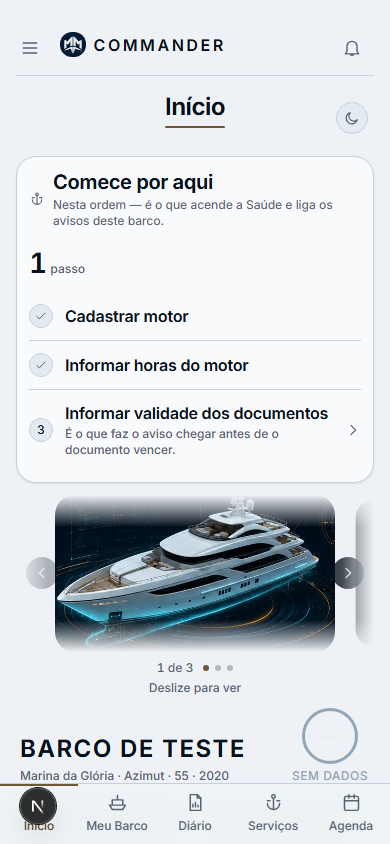
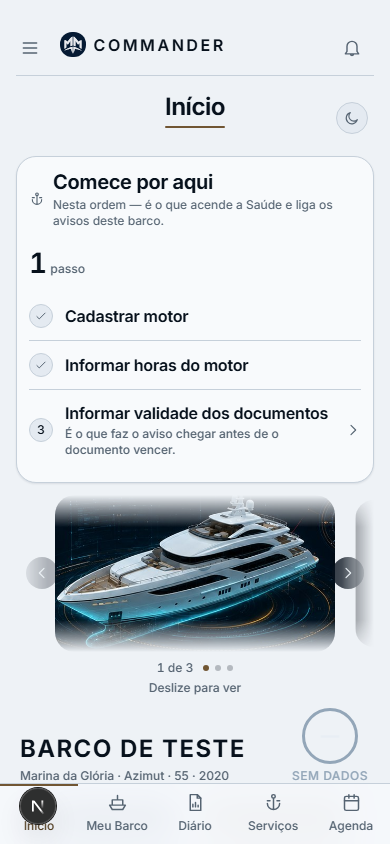
feat(onda 145): o chrome vira vidro - menu de baixo e trilho de desktop
'O menu nao esta em glassmorphism' (dono, 20/08 a noite). A bottom-nav e o
trilho sao as duas pecas FIXAS que o conteudo desliza por baixo - onde o
vidro le como vidro. .vidro-chrome em globals.css: 72% de opacidade sobre
--superficie + blur 16 + saturate 1.4, NOS DOIS temas (vidro de card e
linguagem do escuro; barra translucida sobre conteudo rolando e linguagem
de sistema). O topo fica de fora de proposito: vive no fluxo e rola junto,
vidro ali nao desfocaria nada. Os icones de navegacao do passe anterior
foram revertidos aos originais a pedido do dono no mesmo recado.
(globals tambem carrega os keyframes da gaveta da onda 146.)

diff --git a/web/app/globals.css b/web/app/globals.css
@@ -1280,3 +1280,35 @@ body.fundo-tela-mapa [data-bottom-nav] {
   -webkit-backdrop-filter: blur(8px);
   backdrop-filter: blur(8px);
 }
+
+/* ONDA 145 - O CHROME DE VIDRO ("o menu nao esta em glassmorphism", dono,
+   20/08 a noite). A bottom-nav e o trilho de desktop sao as duas pecas
+   FIXAS que o conteudo desliza por baixo - exatamente onde o vidro le como
+   vidro. Diferente dos cartoes (vidro so no escuro), o chrome e vidro NOS
+   DOIS temas: barra translucida sobre conteudo rolando e linguagem de
+   sistema operacional, nao de tema. O saturate(1.4) e o toque que faz as
+   cores atras atravessarem vivas em vez de acinzentadas. O topo (faixa-topo)
+   fica de fora de proposito: ele vive no fluxo e rola junto - vidro ali nao
+   teria o que desfocar. */
+.vidro-chrome {
+  background-color: color-mix(in srgb, var(--superficie) 72%, transparent);
+  -webkit-backdrop-filter: blur(16px) saturate(1.4);
+  backdrop-filter: blur(16px) saturate(1.4);
+}
+
+/* ONDA 146 — A ENTRADA DA GAVETA (components/ui/gaveta.tsx, imagem 12 do
+   guia). Duas coreografias pra UMA peça: no celular a folha SOBE do rodapé
+   (bottom-sheet, vocabulário nativo do polegar); a partir de `sm` ela
+   DESLIZA da direita (painel lateral de ficha, como o mock desenha). O véu
+   só desvanece. Durações curtas de propósito — confirmar, não animar — e a
+   regra global de `prefers-reduced-motion` lá em cima (o wildcard que zera
+   animation-duration) já cobre as três: quem pediu menos movimento vê a
+   gaveta simplesmente presente, que é o estado final. */
+@keyframes gaveta-sobe { from { transform: translateY(100%); } }
+@keyframes gaveta-desliza { from { transform: translateX(100%); } }
+@keyframes gaveta-desvanece { from { opacity: 0; } }
+.gaveta-veu { animation: gaveta-desvanece .2s var(--curva-ui) both; }
+.gaveta-painel { animation: gaveta-sobe .25s var(--curva-ui) both; }
+@media (min-width: 640px) {
+  .gaveta-painel { animation-name: gaveta-desliza; }
+}

diff --git a/web/components/trilho-lateral.tsx b/web/components/trilho-lateral.tsx
@@ -106,7 +106,9 @@ export function TrilhoLateral({
       // empate se resolve por ordem de DOM — que aqui favorece o conteúdo,
       // desenhado depois da moldura. Casca fixa fica acima de conteúdo
       // rolável SEMPRE, e a escada que garante isso está escrita uma vez só.
-      className="no-imprimir fixed inset-y-0 left-0 z-[var(--z-chrome)] hidden w-[72px] flex-col items-center gap-1 border-r border-line bg-panel py-5 lg:flex"
+      // ONDA 145 — `vidro-chrome` no lugar do `bg-panel`: o trilho é casca
+      // fixa como a bottom-nav, e vidro de chrome vale nos dois temas.
+      className="no-imprimir vidro-chrome fixed inset-y-0 left-0 z-[var(--z-chrome)] hidden w-[72px] flex-col items-center gap-1 border-r border-line py-5 lg:flex"
     >
       {/* ONDA 111 — A MARCA DO TRILHO ERA UM MONOGRAMA ESCRITO À MÃO.
           =====================================================================

diff --git a/web/components/bottom-nav.tsx b/web/components/bottom-nav.tsx
@@ -175,7 +175,10 @@ export function BottomNav() {
     // contexto de empilhamento, e `fixed` não muda essa conta. A escada
     // inteira mora em `globals.css` ("CAMADAS DE Z-INDEX"): flutuante de
     // conteúdo 20 < chrome 30 < toast 40 < modal 50.
-    <nav data-bottom-nav className="no-imprimir fixed inset-x-0 bottom-0 z-[var(--z-chrome)] border-t border-line bg-ink/95 backdrop-blur lg:hidden">
+    // ONDA 145 — `vidro-chrome` (globals.css): a barra vira vidro de verdade
+    // nos dois temas, no lugar do `bg-ink/95` quase opaco. O conteúdo
+    // deslizando por baixo é o que faz o vidro ler como vidro.
+    <nav data-bottom-nav className="no-imprimir vidro-chrome fixed inset-x-0 bottom-0 z-[var(--z-chrome)] border-t border-line lg:hidden">
       <div className="mx-auto flex max-w-[430px]">
         {abas.map((a) => {
           const ativa = pathname.startsWith(a.href)
